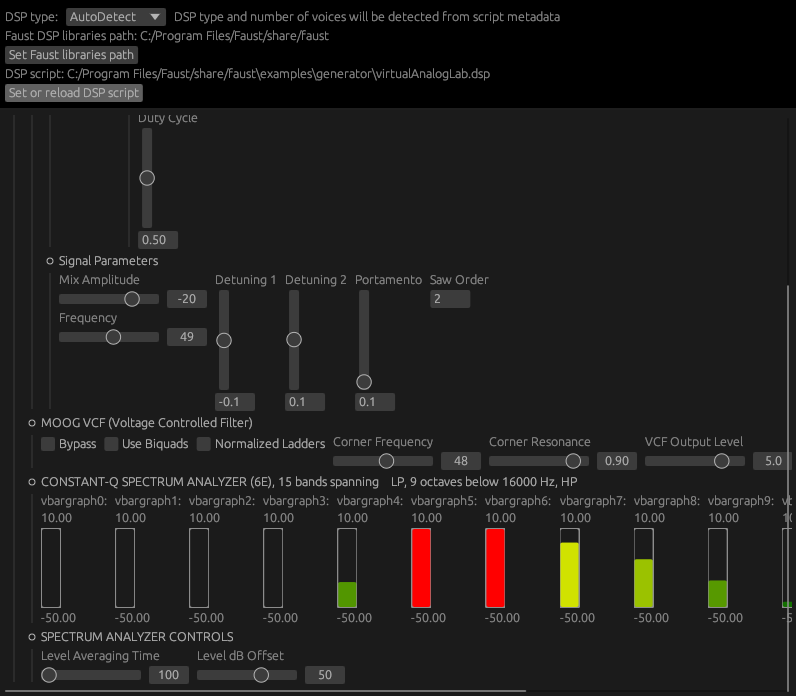
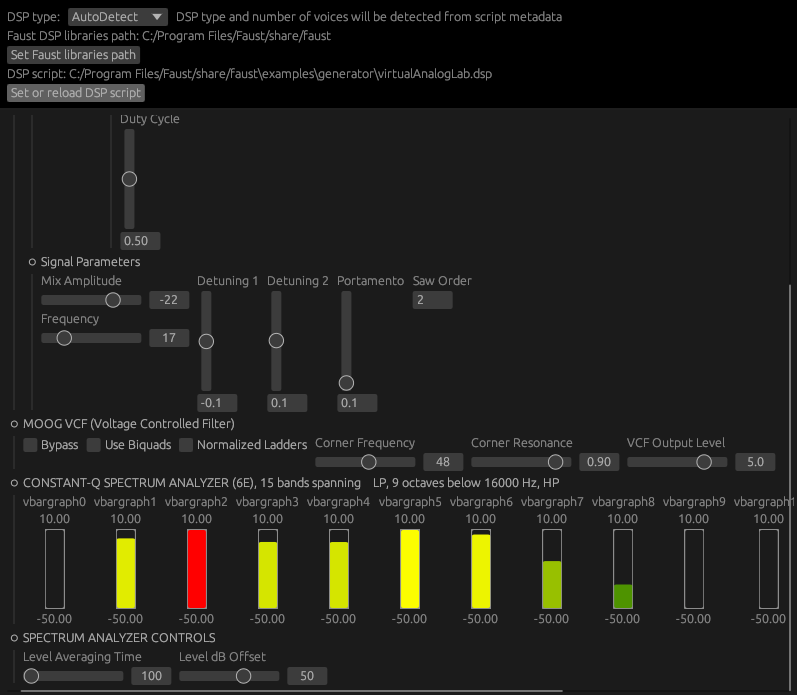
vbargraphs centered with respect to their labels

Changed region(s): [[0.0, 0.0, 0.995, 0.9971]]

diff --git a/src/gui.rs b/src/gui.rs
@@ -243,9 +243,12 @@ pub fn central_panel_contents(ui: &mut egui::Ui, widgets: &mut [DspWidget<'_>], 
                 let t = (cur_val - *min) / (*max - *min);
 
                 ui.vertical(|ui| {
-                    if !label.is_empty() {
-                        ui.label(format!("{}:", label));
-                    }
+                    let label_width = if !label.is_empty() {
+                        let resp = ui.label(&*label);
+                        resp.rect.max.x - resp.rect.min.x
+                    } else {
+                        30.0
+                    };
                     match layout {
                         BargraphLayout::Horizontal => {
                             ui.horizontal(|ui| {
@@ -255,9 +258,15 @@ pub fn central_panel_contents(ui: &mut egui::Ui, widgets: &mut [DspWidget<'_>], 
                             });
                         }
                         BargraphLayout::Vertical => {
-                            ui.label(format!("{:.2}", max));
-                            draw_bargraph(ui, t, cur_val, layout);
-                            ui.label(format!("{:.2}", min));
+                            ui.allocate_ui_with_layout(
+                                egui::vec2(label_width, 100.0),
+                                egui::Layout::top_down(egui::Align::Center),
+                                |ui| {
+                                    ui.label(format!("{:.2}", max));
+                                    draw_bargraph(ui, t, cur_val, layout);
+                                    ui.label(format!("{:.2}", min));
+                                },
+                            );
                         }
                     };
                 });

diff --git a/src/lib.rs b/src/lib.rs
@@ -162,7 +162,7 @@ impl Plugin for NihFaustJit {
                     None => DspState::NoDspScript,
                 };
                 log!(
-                    Level::Info,
+                    Level::Debug,
                     "Loaded {:?} with sample_rate={}, nvoices={} => {:?}",
                     selected_paths,
                     sample_rate,
